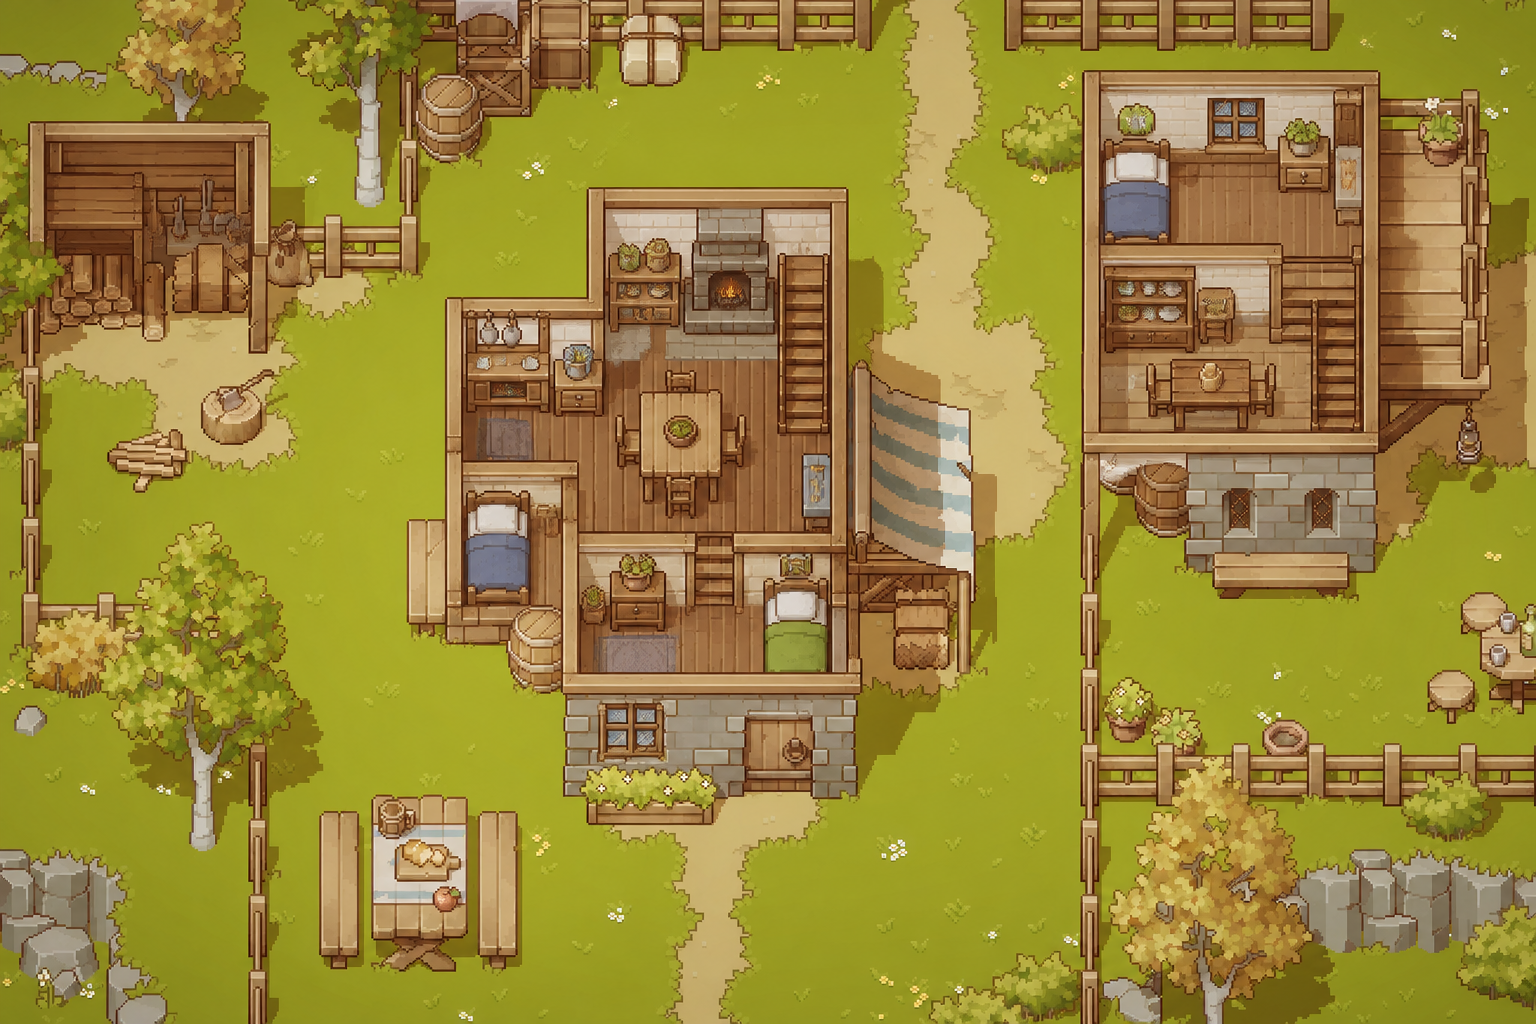
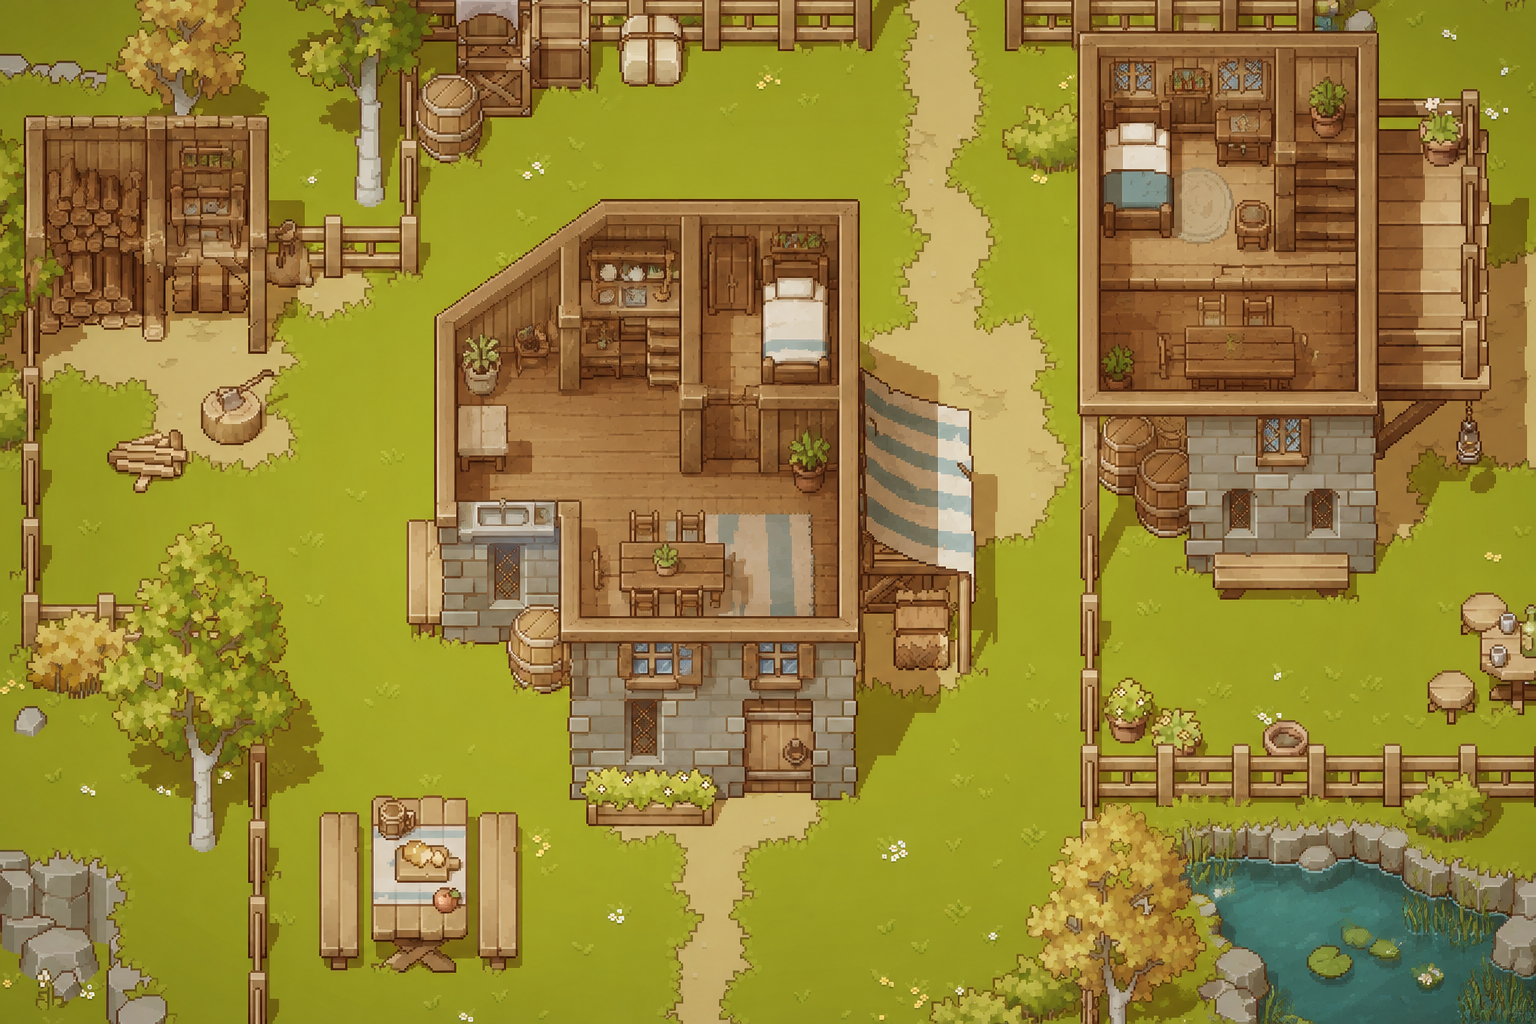
Fishing system, new character assets, realistic idle wander
- Add character1/character2 fishing rod assets (Universal LPC 2x, 1664x3968)
- Fix spritesheet frame config: 64x64 walk (26 cols/row), 128x128 fishing overlay
- Fishing animations use correct rows 54-61 (cast/hold/reel-up per direction)
- Fishing zone: bottom-right 250x250 rect with snap position + multi-fisher slots
- Drag out of zone restores prior bubble text; dragstart cancels fishing cleanly
- Idle wander: villagers take slow short strolls (10-20s intervals, 2-tile radius, 30px/s)

diff --git a/client/game.js b/client/game.js
@@ -117,6 +117,11 @@ const ZONES = {
   commons:  { x: 70,  y: 413, label: 'The Commons'   }, // bottom-left rocks + grass
 };
 
+const FISHING_ZONE  = { x: 550, y: 250, w: 250, h: 250 }; // bottom-right 250×250
+const FISHING_SNAP  = { x: 700, y: 385 };                 // where the character stands to fish
+const FISHING_OFFSETS = [0, -36, 36, -72, 72];           // x offsets for multiple fishers
+const FISHING_CHARS = new Set(['character1', 'character2']);
+
 const TOOL_MAP = {
   Read:      { zone: 'inn',      label: 'studying...'    },
   Glob:      { zone: 'orchard',  label: 'searching...'   },
@@ -156,9 +161,14 @@ class VillageScene extends Phaser.Scene {
     this.load.spritesheet('altcolor', B + 'sprites/people/soldier_altcolor.png', { frameWidth: 64, frameHeight: 64 });
     this.load.spritesheet('princess', B + 'sprites/people/princess.png',         { frameWidth: 64, frameHeight: 64 });
 
-    // Universal LPC characters (832×3456, 13 frames × 54 rows, 64×64 each)
+    // Universal LPC characters — 64×64 frames, 26 cols wide (1664px sheet)
     this.load.spritesheet('character1', 'assets/character1.png', { frameWidth: 64, frameHeight: 64 });
     this.load.spritesheet('character2', 'assets/character2.png', { frameWidth: 64, frameHeight: 64 });
+
+    // Fishing frames are 128×128 (rod extends right, casting pose goes tall)
+    // Same PNG, different frame config: 13 cols × 31 rows
+    this.load.spritesheet('character1-fishing', 'assets/character1.png', { frameWidth: 128, frameHeight: 128 });
+    this.load.spritesheet('character2-fishing', 'assets/character2.png', { frameWidth: 128, frameHeight: 128 });
 
     // Village backgrounds — both pixel-perfect aligned (1950×1300)
     this.load.image('village',        'assets/village.png');         // with roofs
@@ -178,16 +188,31 @@ class VillageScene extends Phaser.Scene {
 
   create() {
     // ── Animations ─────────────────────────────────────────────────────
-    // Universal LPC characters — walk cycle at rows 8-11 (13 frames/row → frame = row*13+col)
+    // Fishing rod animations — character1 and character2 only
+    // Sheet: 832px wide = 13 frames/row; fishing at rows 50-53
+    // Row 53 (right-cast): frames 689-694  Row 51 (wait/hold): 663-665  Row 50 (bite/reel): 650-655
     for (const key of ['character1', 'character2']) {
-      this.anims.create({ key: `${key}-up`,         frames: this.anims.generateFrameNumbers(key, { start: 104, end: 112 }), frameRate: 10, repeat: -1 });
-      this.anims.create({ key: `${key}-left`,        frames: this.anims.generateFrameNumbers(key, { start: 117, end: 125 }), frameRate: 10, repeat: -1 });
-      this.anims.create({ key: `${key}-down`,        frames: this.anims.generateFrameNumbers(key, { start: 130, end: 138 }), frameRate: 10, repeat: -1 });
-      this.anims.create({ key: `${key}-right`,       frames: this.anims.generateFrameNumbers(key, { start: 143, end: 151 }), frameRate: 10, repeat: -1 });
-      this.anims.create({ key: `${key}-idle`,        frames: [{ key, frame: 130 }], frameRate: 1 });
-      this.anims.create({ key: `${key}-look-left`,   frames: this.anims.generateFrameNumbers(key, { start: 117, end: 119 }), frameRate: 5, repeat: 0 });
-      this.anims.create({ key: `${key}-look-right`,  frames: this.anims.generateFrameNumbers(key, { start: 143, end: 145 }), frameRate: 5, repeat: 0 });
-      this.anims.create({ key: `${key}-look-down`,   frames: this.anims.generateFrameNumbers(key, { start: 130, end: 132 }), frameRate: 5, repeat: 0 });
+      // Fishing uses 128×64 frames (13 cols × 62 rows), frame = row*13 + col
+      // Rows 54-57 = cast (4 dirs), rows 58-61 = hold (4 dirs); right-facing = rows 57 and 61
+      const fk = `${key}-fishing`;
+      // 128×128 frames, 13 cols × 31 rows; fishing rows 27-30
+      // Row 30 (right-facing cast): 30×13=390  Row 29 (down-hold): 29×13=377  Row 27 (up-reel): 27×13=351
+      this.anims.create({ key: `${key}-fish-cast`, frames: this.anims.generateFrameNumbers(fk, { start: 390, end: 396 }), frameRate: 8, repeat: 0 });
+      this.anims.create({ key: `${key}-fish-wait`, frames: this.anims.generateFrameNumbers(fk, { start: 390, end: 393 }), frameRate: 4, repeat: -1 });
+      this.anims.create({ key: `${key}-fish-bite`, frames: this.anims.generateFrameNumbers(fk, { start: 351, end: 357 }), frameRate: 8, repeat: 0 });
+    }
+
+    // Universal LPC characters — 64×64 frames, 26 cols/row (1664px sheet)
+    // Walk at rows 8-11: frame = row*26 + col
+    for (const key of ['character1', 'character2']) {
+      this.anims.create({ key: `${key}-up`,        frames: this.anims.generateFrameNumbers(key, { start: 208, end: 216 }), frameRate: 10, repeat: -1 });
+      this.anims.create({ key: `${key}-left`,       frames: this.anims.generateFrameNumbers(key, { start: 234, end: 242 }), frameRate: 10, repeat: -1 });
+      this.anims.create({ key: `${key}-down`,       frames: this.anims.generateFrameNumbers(key, { start: 260, end: 268 }), frameRate: 10, repeat: -1 });
+      this.anims.create({ key: `${key}-right`,      frames: this.anims.generateFrameNumbers(key, { start: 286, end: 294 }), frameRate: 10, repeat: -1 });
+      this.anims.create({ key: `${key}-idle`,       frames: [{ key, frame: 260 }], frameRate: 1 });
+      this.anims.create({ key: `${key}-look-left`,  frames: this.anims.generateFrameNumbers(key, { start: 234, end: 236 }), frameRate: 5, repeat: 0 });
+      this.anims.create({ key: `${key}-look-right`, frames: this.anims.generateFrameNumbers(key, { start: 286, end: 288 }), frameRate: 5, repeat: 0 });
+      this.anims.create({ key: `${key}-look-down`,  frames: this.anims.generateFrameNumbers(key, { start: 260, end: 262 }), frameRate: 5, repeat: 0 });
     }
 
     for (const key of ['soldier', 'altcolor', 'princess']) {
@@ -208,6 +233,7 @@ class VillageScene extends Phaser.Scene {
 
     this.chickens = [];
     this.dogs = [];
+    this.fishingSlots = new Set();
 
     this.buildMap();
     this.buildDayNight();
@@ -597,6 +623,67 @@ class VillageScene extends Phaser.Scene {
     });
   }
 
+  _stopFishing(sprite) {
+    sprite._fishing = false;
+    if (sprite._fishTween) { sprite._fishTween.remove(); sprite._fishTween = null; }
+    if (sprite._fishTimer) { sprite._fishTimer.remove(); sprite._fishTimer = null; }
+    if (sprite._fishingSlot !== undefined) {
+      this.fishingSlots.delete(sprite._fishingSlot);
+      sprite._fishingSlot = undefined;
+    }
+    if (sprite._bubbleRef) {
+      const restore = sprite._preFishText
+        ?? (sprite.history.length > 0 ? sprite.history[sprite.history.length - 1] : 'wandering...');
+      sprite._bubbleRef.setText(restore);
+    }
+    sprite._preFishText = null;
+    sprite.y = Math.round(sprite.y);
+  }
+
+  startFishing(v) {
+    if (!v || !v.sprite._fishing) return;
+    const key = v.cfg.key;
+    v.bubble.setText('fishing...');
+    v.sprite.play(`${key}-fish-cast`);
+    v.sprite.once('animationcomplete', () => {
+      if (v.sprite._fishing) this._fishWait(v);
+    });
+  }
+
+  _fishWait(v) {
+    if (!v.sprite._fishing) return;
+    const key = v.cfg.key;
+    v.sprite.play(`${key}-fish-wait`);
+    v.bubble.setText('...🎣...');
+
+    if (v.sprite._fishTween) v.sprite._fishTween.remove();
+    v.sprite._fishTween = this.tweens.add({
+      targets: v.sprite, y: v.sprite.y + 2,
+      duration: 1100, yoyo: true, repeat: -1, ease: 'Sine.InOut',
+    });
+
+    v.sprite._fishTimer = this.time.delayedCall(
+      Phaser.Math.Between(2500, 6000),
+      () => {
+        if (!v.sprite._fishing) return;
+        if (v.sprite._fishTween) { v.sprite._fishTween.remove(); v.sprite._fishTween = null; }
+        v.sprite.y = Math.round(v.sprite.y);
+        if (Math.random() < 0.35) this._fishBite(v);
+        else this.startFishing(v);
+      }
+    );
+  }
+
+  _fishBite(v) {
+    if (!v.sprite._fishing) return;
+    const key = v.cfg.key;
+    v.bubble.setText('Got one! 🐟');
+    v.sprite.play(`${key}-fish-bite`);
+    v.sprite.once('animationcomplete', () => {
+      if (v.sprite._fishing) this.startFishing(v);
+    });
+  }
+
   buildMap() {
     // ── Ground ─────────────────────────────────────────────────────────
     // Grass base (terrain frame 2 = grass swatch, tiled at 2×)
@@ -670,8 +757,7 @@ class VillageScene extends Phaser.Scene {
 
     // Physics sprite — circular body for natural separation
     const sprite = this.physics.add.sprite(pos.x, pos.y, cfg.key)
-      .setScale(0.72).setTint(cfg.tint).setDepth(5); // under roofs (6); hover to reveal
-    // Circular body: radius 18px in texture space (64×64), centered
+      .setScale(0.72).setTint(cfg.tint).setDepth(5);
     sprite.setCircle(18, 14, 14);
     sprite.body.setCollideWorldBounds(true);
     sprite.body.setMaxVelocity(120, 120);
@@ -685,8 +771,16 @@ class VillageScene extends Phaser.Scene {
     sprite.arrived    = true;
     sprite.path       = null;
     sprite.pathIdx    = 0;
-    sprite.history    = [];      // event log for click-to-inspect
-    sprite._wasDragged = false;
+    sprite.history        = [];
+    sprite._wasDragged    = false;
+    sprite._fishing       = false;
+    sprite._fishTween     = null;
+    sprite._fishTimer     = null;
+    sprite._fishingSlot   = undefined;
+    sprite._preFishText   = null;
+    sprite._idleWander    = false;
+    sprite._idleWanderMs  = 0;
+    sprite._idleWanderWait = Phaser.Math.Between(10000, 20000);
     // Idle look animation — independent random timer per villager
     sprite.idleMs   = 0;
     sprite.idleWait = Phaser.Math.Between(2000, 6000);
@@ -702,6 +796,7 @@ class VillageScene extends Phaser.Scene {
       backgroundColor: '#00000088', padding: { x: 3, y: 1 },
     }).setOrigin(0.5, 0).setDepth(15);
 
+    sprite._bubbleRef = bubble;
     this.villagers[agentId] = { sprite, label, bubble, cfg };
 
     // ── Click to show history ─────────────────────────────────────────
@@ -721,9 +816,10 @@ class VillageScene extends Phaser.Scene {
     this.input.setDraggable(sprite);
 
     sprite.on('dragstart', () => {
-      sprite.body.setEnable(false);       // physics off while held
+      this._stopFishing(sprite);          // cancel fishing before drag starts
+      sprite.body.setEnable(false);
       this.tweens.killTweensOf(sprite);
-      sprite.setDepth(25);               // float above everything
+      sprite.setDepth(25);
     });
 
     sprite.on('drag', (pointer, dragX, dragY) => {
@@ -750,6 +846,30 @@ class VillageScene extends Phaser.Scene {
       sprite.path    = null;
       sprite.looking = false;
       sprite.idleMs  = 0;
+
+      // Start fishing if dropped near the pond — only rod-carrying characters
+      const canFish = FISHING_CHARS.has(this.villagers[agentId]?.cfg.key);
+      const inZone  = sprite.x >= FISHING_ZONE.x && sprite.x <= FISHING_ZONE.x + FISHING_ZONE.w
+                   && sprite.y >= FISHING_ZONE.y && sprite.y <= FISHING_ZONE.y + FISHING_ZONE.h;
+      if (canFish && inZone) {
+        this._stopFishing(sprite);
+        const offset = FISHING_OFFSETS.find(o => !this.fishingSlots.has(o)) ?? 0;
+        this.fishingSlots.add(offset);
+        sprite._fishingSlot = offset;
+        const sx = FISHING_SNAP.x + offset, sy = FISHING_SNAP.y;
+        sprite.setPosition(sx, sy);
+        sprite.body.reset(sx, sy);
+        label.setPosition(sx, sy - 40);
+        bubble.setPosition(sx, sy + 30);
+        sprite.targetX = sx;
+        sprite.targetY = sy;
+        sprite._fishing     = true;
+        sprite._preFishText = sprite._bubbleRef?.text ?? null;
+        sprite.setFlipX(false);
+        this.startFishing(this.villagers[agentId]);
+      } else {
+        this._stopFishing(sprite);
+      }
     });
 
     return this.villagers[agentId];
@@ -784,6 +904,11 @@ class VillageScene extends Phaser.Scene {
       v.sprite.targetY = destY;
     }
 
+    // Interrupt fishing and idle wander — agent has work to do
+    this._stopFishing(v.sprite);
+    v.sprite._idleWander   = false;
+    v.sprite._idleWanderMs = 0;
+
     v.sprite.arrived  = false;
     v.sprite.looking  = false;
     v.sprite.idleMs   = 0;
@@ -797,15 +922,22 @@ class VillageScene extends Phaser.Scene {
 
   // update() drives villager movement — physics handles separation
   update(time, delta) {
-    const SPEED   = 75;
-    const ARRIVAL = 20;
-    const LOOKS   = ['look-left', 'look-right', 'look-down'];
+    const SPEED      = 75;
+    const IDLE_SPEED = 30;
+    const ARRIVAL    = 20;
+    const LOOKS      = ['look-left', 'look-right', 'look-down'];
 
     for (const v of Object.values(this.villagers)) {
       const idle = `${v.cfg.key}-idle`;
 
       if (v.sprite.arrived) {
         v.sprite.setVelocity(0, 0);
+
+        if (v.sprite._fishing) {
+          v.label.setPosition(v.sprite.x, v.sprite.y - 40);
+          v.bubble.setPosition(v.sprite.x, v.sprite.y + 30);
+          continue;
+        }
 
         // Idle look animation — tick the per-villager timer
         if (!v.sprite.looking) {
@@ -824,13 +956,51 @@ class VillageScene extends Phaser.Scene {
             v.sprite.play(idle);
           }
         }
+
+        // Idle wander — occasional slow amble to a nearby tile
+        if (!v.sprite.looking && !v.sprite._fishing) {
+          v.sprite._idleWanderMs += delta;
+          if (v.sprite._idleWanderMs >= v.sprite._idleWanderWait) {
+            v.sprite._idleWanderMs  = 0;
+            v.sprite._idleWanderWait = Phaser.Math.Between(10000, 20000);
+            const ct = gameToTile(v.sprite.x, v.sprite.y);
+            const picks = [];
+            for (let dr = -2; dr <= 2; dr++)
+              for (let dc = -2; dc <= 2; dc++) {
+                if (dr === 0 && dc === 0) continue;
+                const nr = ct.r + dr, nc = ct.c + dc;
+                if (nr >= 0 && nr < GRID_ROWS && nc >= 0 && nc < GRID_COLS && GRID[nr][nc])
+                  picks.push({ c: nc, r: nr });
+              }
+            if (picks.length > 0) {
+              const dest = picks[Math.floor(Math.random() * picks.length)];
+              const path = aStar(ct.c, ct.r, dest.c, dest.r);
+              if (path && path.length > 1) {
+                v.sprite.path    = path.slice(1).map(t => tileToGame(t.c, t.r));
+                v.sprite.pathIdx = 0;
+                v.sprite.targetX = v.sprite.path[0].x;
+                v.sprite.targetY = v.sprite.path[0].y;
+              } else {
+                const g = tileToGame(dest.c, dest.r);
+                v.sprite.path    = null;
+                v.sprite.targetX = g.x;
+                v.sprite.targetY = g.y;
+              }
+              v.sprite._idleWander = true;
+              v.sprite.arrived     = false;
+              v.sprite.looking     = false;
+              v.sprite.idleMs      = 0;
+            }
+          }
+        }
       } else {
         const dx   = v.sprite.targetX - v.sprite.x;
         const dy   = v.sprite.targetY - v.sprite.y;
         const dist = Math.sqrt(dx * dx + dy * dy);
 
         if (dist > ARRIVAL) {
-          v.sprite.setVelocity((dx / dist) * SPEED, (dy / dist) * SPEED);
+          const spd = v.sprite._idleWander ? IDLE_SPEED : SPEED;
+          v.sprite.setVelocity((dx / dist) * spd, (dy / dist) * spd);
           const dir  = Math.abs(dx) > Math.abs(dy)
             ? (dx > 0 ? 'right' : 'left')
             : (dy > 0 ? 'down' : 'up');
@@ -845,8 +1015,9 @@ class VillageScene extends Phaser.Scene {
             v.sprite.targetX = wp.x;
             v.sprite.targetY = wp.y;
           } else {
-            v.sprite.arrived = true;
-            v.sprite.path    = null;
+            v.sprite.arrived     = true;
+            v.sprite._idleWander = false;
+            v.sprite.path        = null;
             v.sprite.setVelocity(0, 0);
             if (v.sprite.anims.currentAnim?.key !== idle) v.sprite.play(idle);
           }
